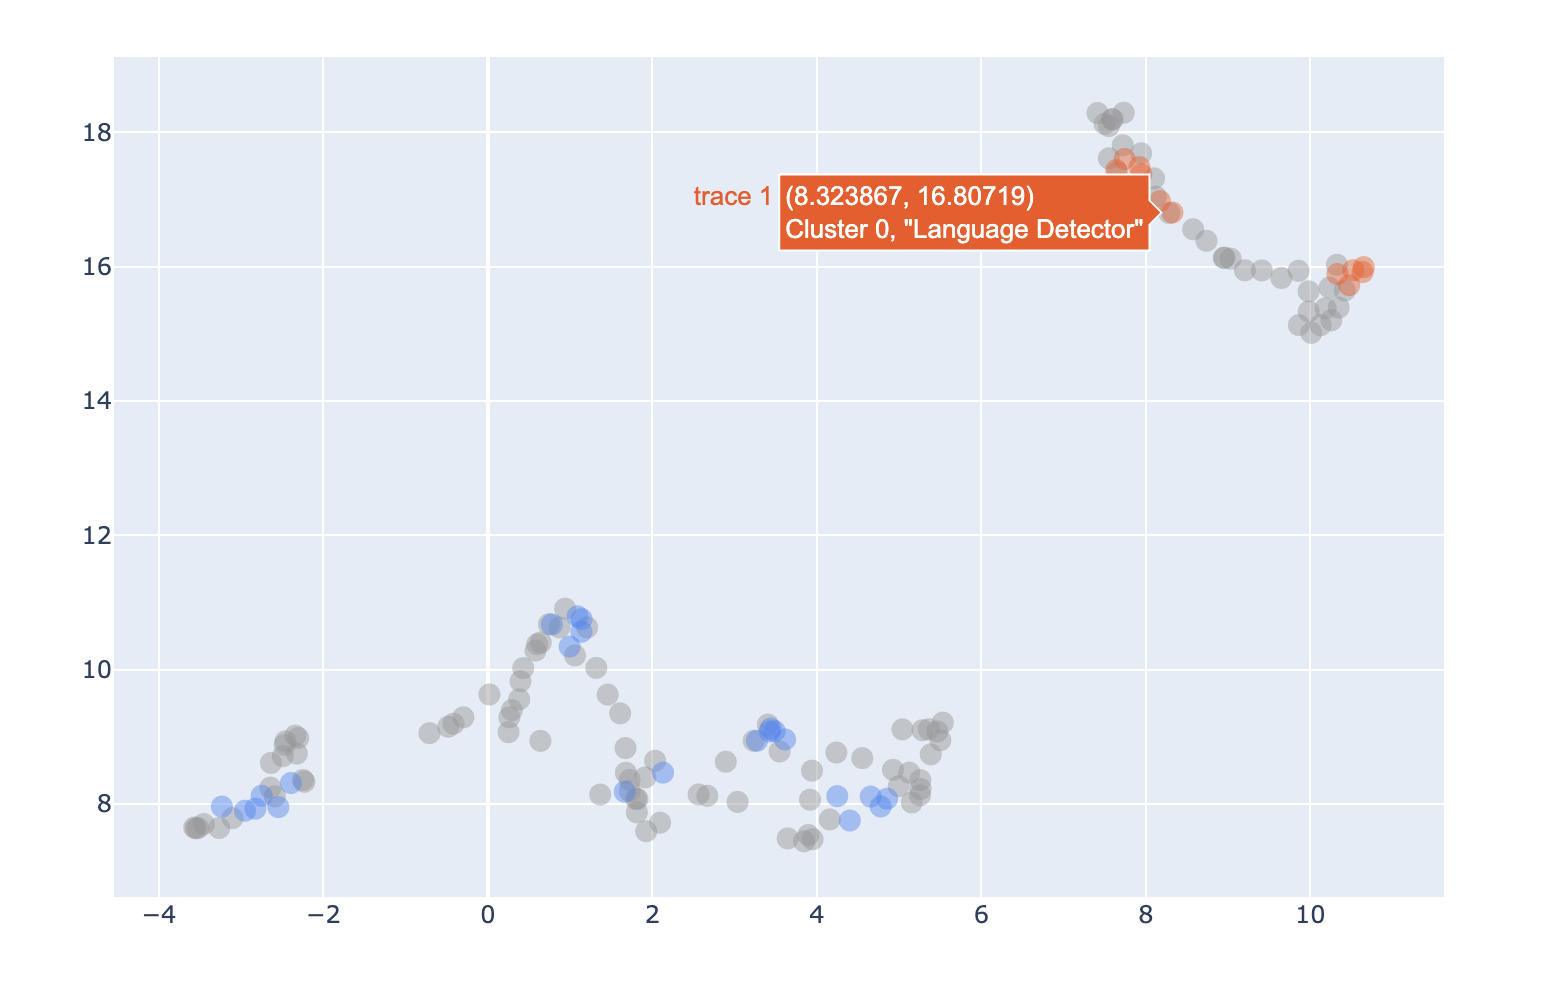
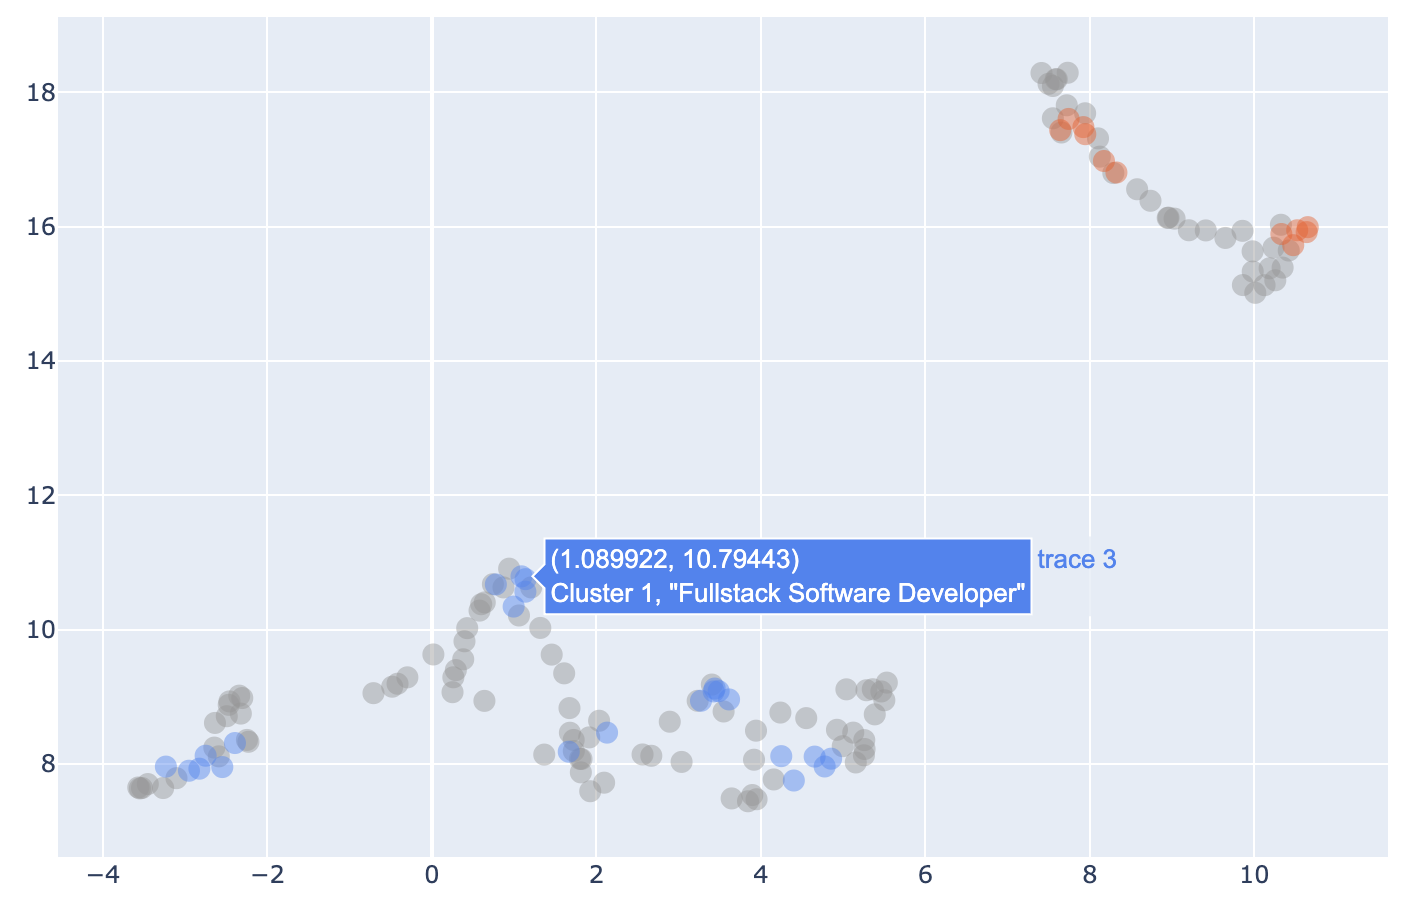
new figure added to readme

diff --git a/README.md b/README.md
@@ -18,23 +18,36 @@
 
 * The below figures correspond to [`experiments/02_09_2023_16_54_32`](https://github.com/daniel-furman/awesome-chatgpt-prompts-clustering/tree/main/experiments/02_09_2023_16_54_32)
 
+### Clustering
+
+**Figure 1**. We employ the HDBSCAN algorithm to probabalistically cluster the prompts. This clustering algorithm is superior to other segmentation methods in at least four ways:
+
+1. Don’t be wrong: Clusters can have varying densities, don’t need to be globular, and won’t have noise lumped in
+2. Intuitive parameters: Choosing a mimnimum cluster size is very reasonable, and the number of *k* clusters does not need to be specified (HDBSCAN finds the optomal *k* for you)
+3. Stability: HDBSCAN is stable over runs and subsampling and has good stability over parameter choices
+4. Performance: When implemented well HDBSCAN can be very efficient; the current implementation has similar performance to fastcluster’s agglomerative clustering
+
+![](experiments/02_09_2023_16_54_32/assets/clusters_viz_1.png)
+
+* See [how hdbscan works](https://hdbscan.readthedocs.io/en/latest/how_hdbscan_works.html) for supporting information
+
 ### Exemplars
 
-**Figure 1**. The most persistent prompts in each leaf cluster are known as "exemplars". These represent the hearts around which the ultimate cluster formed.
+**Figure 2**. The most persistent prompts in each leaf cluster are known as "exemplars". These represent the hearts around which the ultimate cluster formed.
 
 ![](experiments/02_09_2023_16_54_32/assets/exemplars_viz_1.png)
 
-* See [`hdbscan docs`](https://hdbscan.readthedocs.io/en/latest/soft_clustering_explanation.html#distance-based-membership) for more information on the above figure
+* See [`soft clustering explanation`](https://hdbscan.readthedocs.io/en/latest/soft_clustering_explanation.html#distance-based-membership) for supporting information
 
 ### Sub-Clustering
 
-**Figure 2**. Additional clustering is conducted around the exemplars to identify sub-topics in the dataset. The cases in each sub-cluster then serve as context for the [`gpt-3.5-turbo-16k`](https://platform.openai.com/docs/models/gpt-3-5) calls below.
+**Figure 3**. Additional clustering is conducted around the exemplars to identify sub-topics in the dataset. The cases in each sub-cluster then serve as context for the [`gpt-3.5-turbo-16k`](https://platform.openai.com/docs/models/gpt-3-5) calls below.
 
 ![](experiments/02_09_2023_16_54_32/assets/exemplars_viz_2.png)
 
 ### Themes Summarization
 
-**Figure 3**. A visualization of the dataset's core themes, which were generated by [`gpt-3.5-turbo-16k`](https://platform.openai.com/docs/models/gpt-3-5). Themes are arranged in descending order from most to least frequent. 
+**Figure 4**. A visualization of the dataset's core themes, which were generated by [`gpt-3.5-turbo-16k`](https://platform.openai.com/docs/models/gpt-3-5). Themes are arranged in descending order from most to least frequent. 
 
 ![](experiments/02_09_2023_16_54_32/assets/cluster1_subcluster4.png)
 ![](experiments/02_09_2023_16_54_32/assets/cluster1_subcluster2.png)
@@ -43,4 +56,4 @@
 ![](experiments/02_09_2023_16_54_32/assets/cluster1_subcluster3.png)
 ![](experiments/02_09_2023_16_54_32/assets/cluster0_subcluster0.png)
 
-* The above figure was created with [`jsoncrack.com/editor`](https://jsoncrack.com/editor)
+* The above was created with [`jsoncrack.com/editor`](https://jsoncrack.com/editor)
